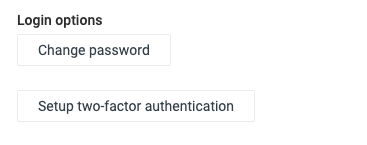
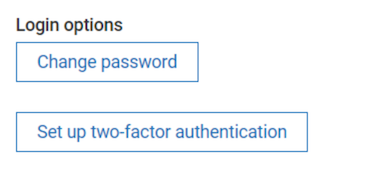
fixed spelling of setup in text and screenshot

diff --git a/content/users-guide/administration-bundle/changing-settings.md b/content/users-guide/administration-bundle/changing-settings.md
@@ -60,7 +60,7 @@ You may choose one of the following options:
 	> **Info:** An SMS gateway microservice must be configured for the tenant. Naturally only users with a valid phone number associated can use this functionality.
 
 * **Google Authenticator** (Time-based One-Time Password = TOTP), supporting the following settings:
-	 - **Enforce TOTP two-factor authentication on all users**: When enabled it will force all users to setup their TFA on login. Otherwise each individual user can choose to activate it or not.
+	 - **Enforce TOTP two-factor authentication on all users**: When enabled it will force all users to set up their TFA on login. Otherwise each individual user can choose to activate it or not.
    - **Limit token validity for**: lifetime of each session in minutes.  When the session expires the user has to re-authenticate.
 
 	> **Info:** This strategy is only available together with 'OAuth Internal'.

diff --git a/content/users-guide/administration-bundle/tfa.md b/content/users-guide/administration-bundle/tfa.md
@@ -32,7 +32,7 @@ Users have to install a TOTP application on their smartphone (Google Authenticat
 
 #### Setup
 
-Opposed to the SMS strategy TOTP has to be setup by each user. By opening **User settings** in the top right corner and then clicking on **Setup two-factor authentication** they can start the setup process.
+Opposed to the SMS strategy TOTP has to be set up by each user. By opening **User settings** in the top right corner and then clicking **Set up two-factor authentication** they can start the setup process.
 ![Trigger TOTP setup](/images/users-guide/Administration/admin-user-tfa-setup-button.png)
 
 IF TFA is enabled, the user will be presented a QR code at login, that needs to be scanned with the previously installed TOTP mobile application.
